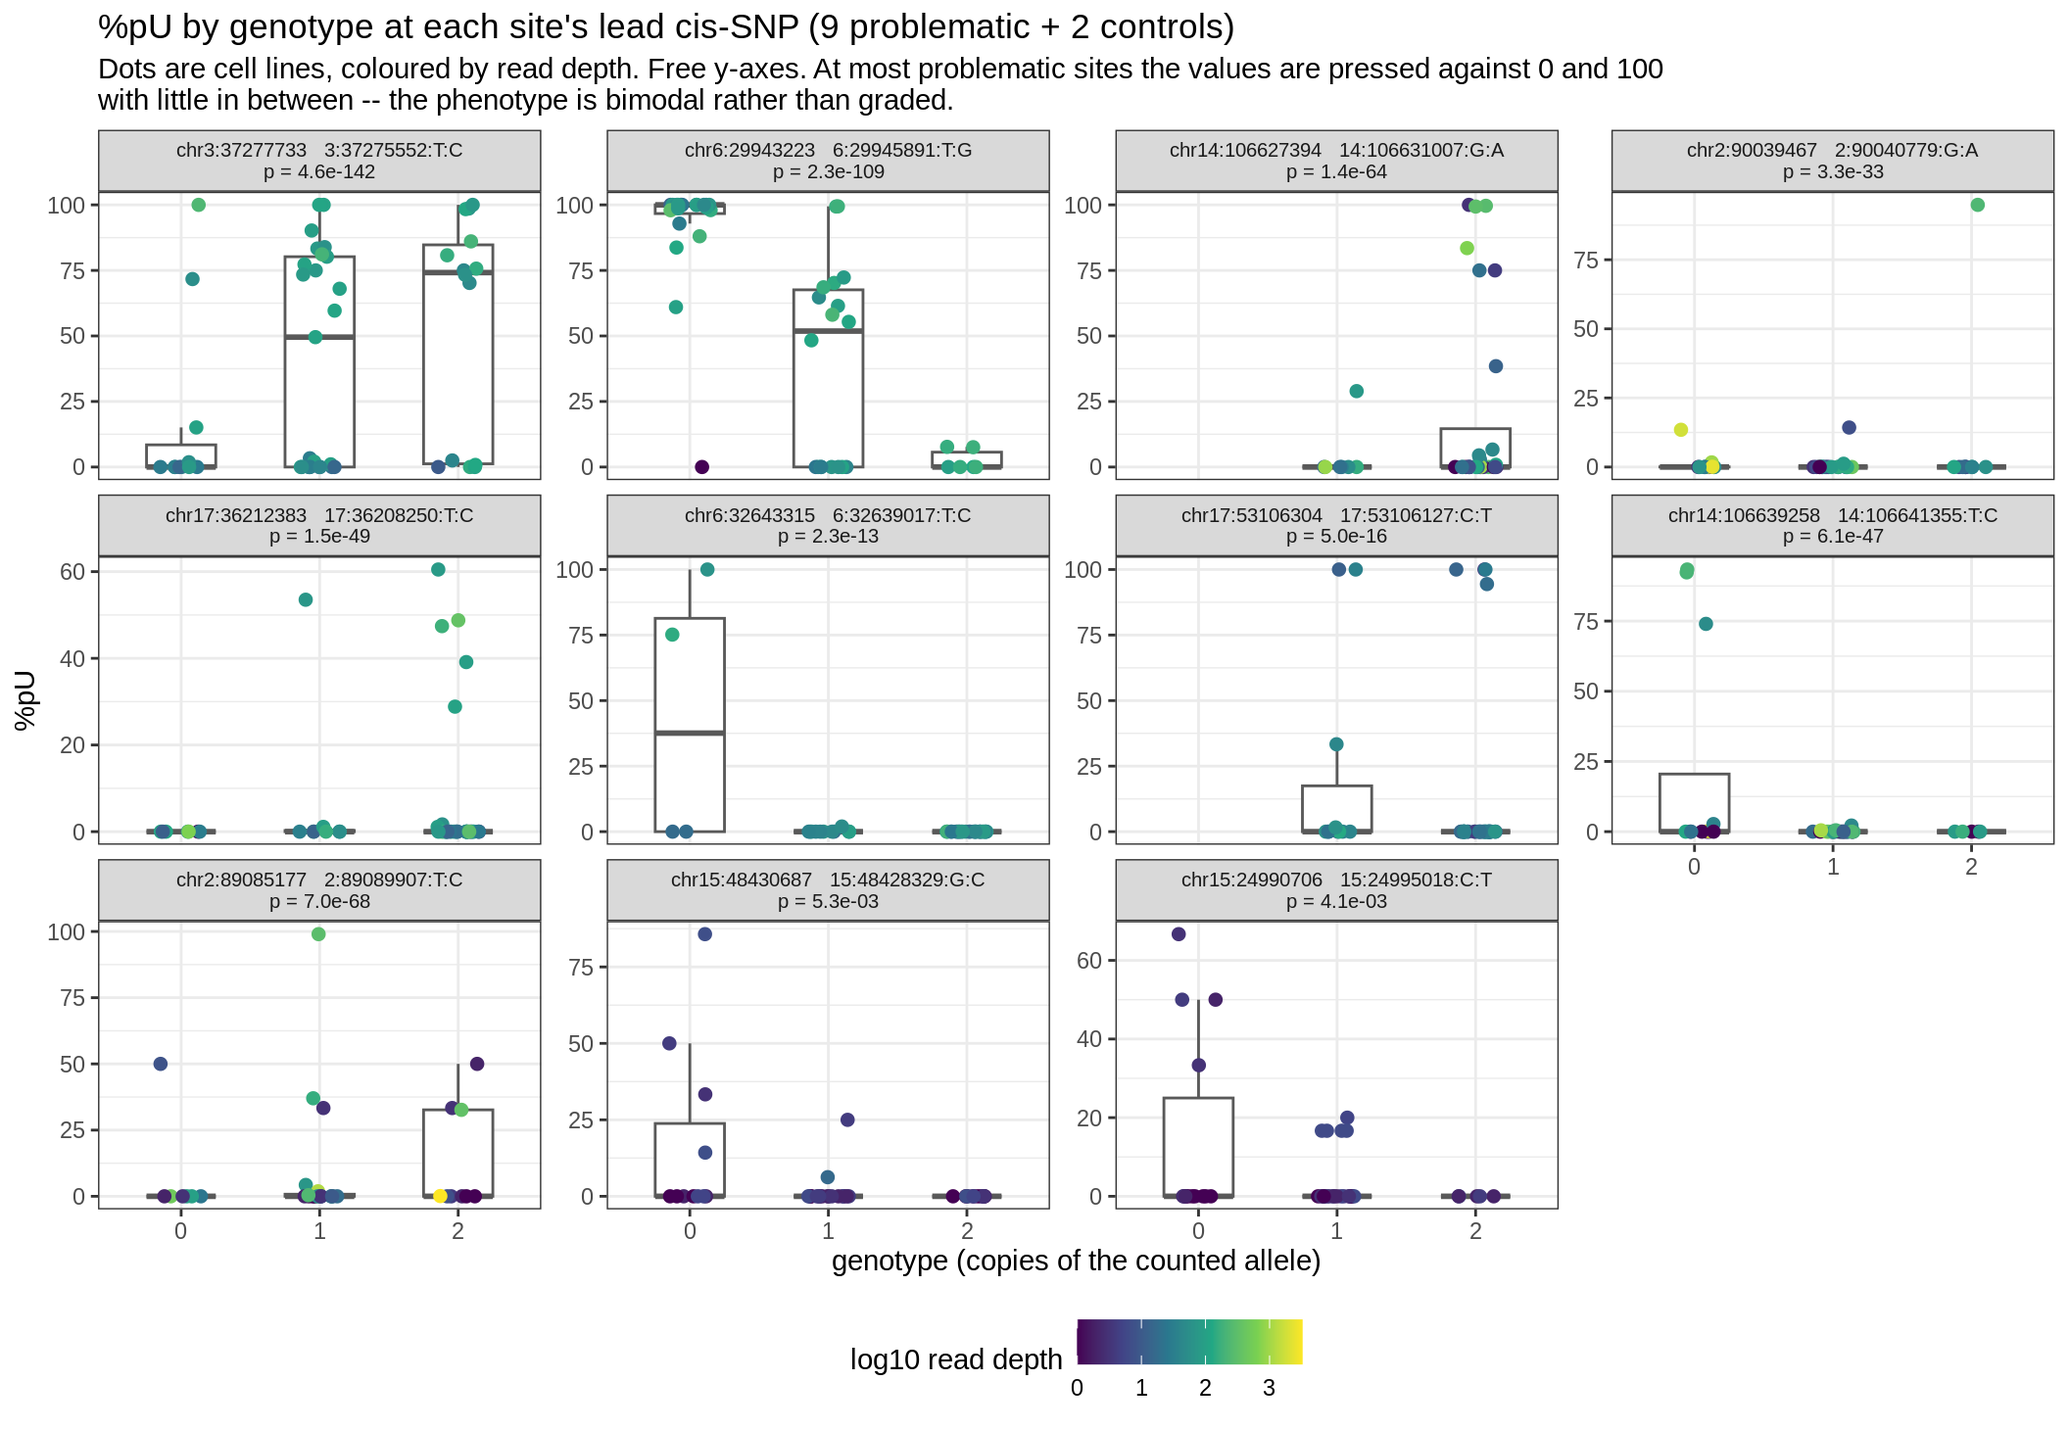
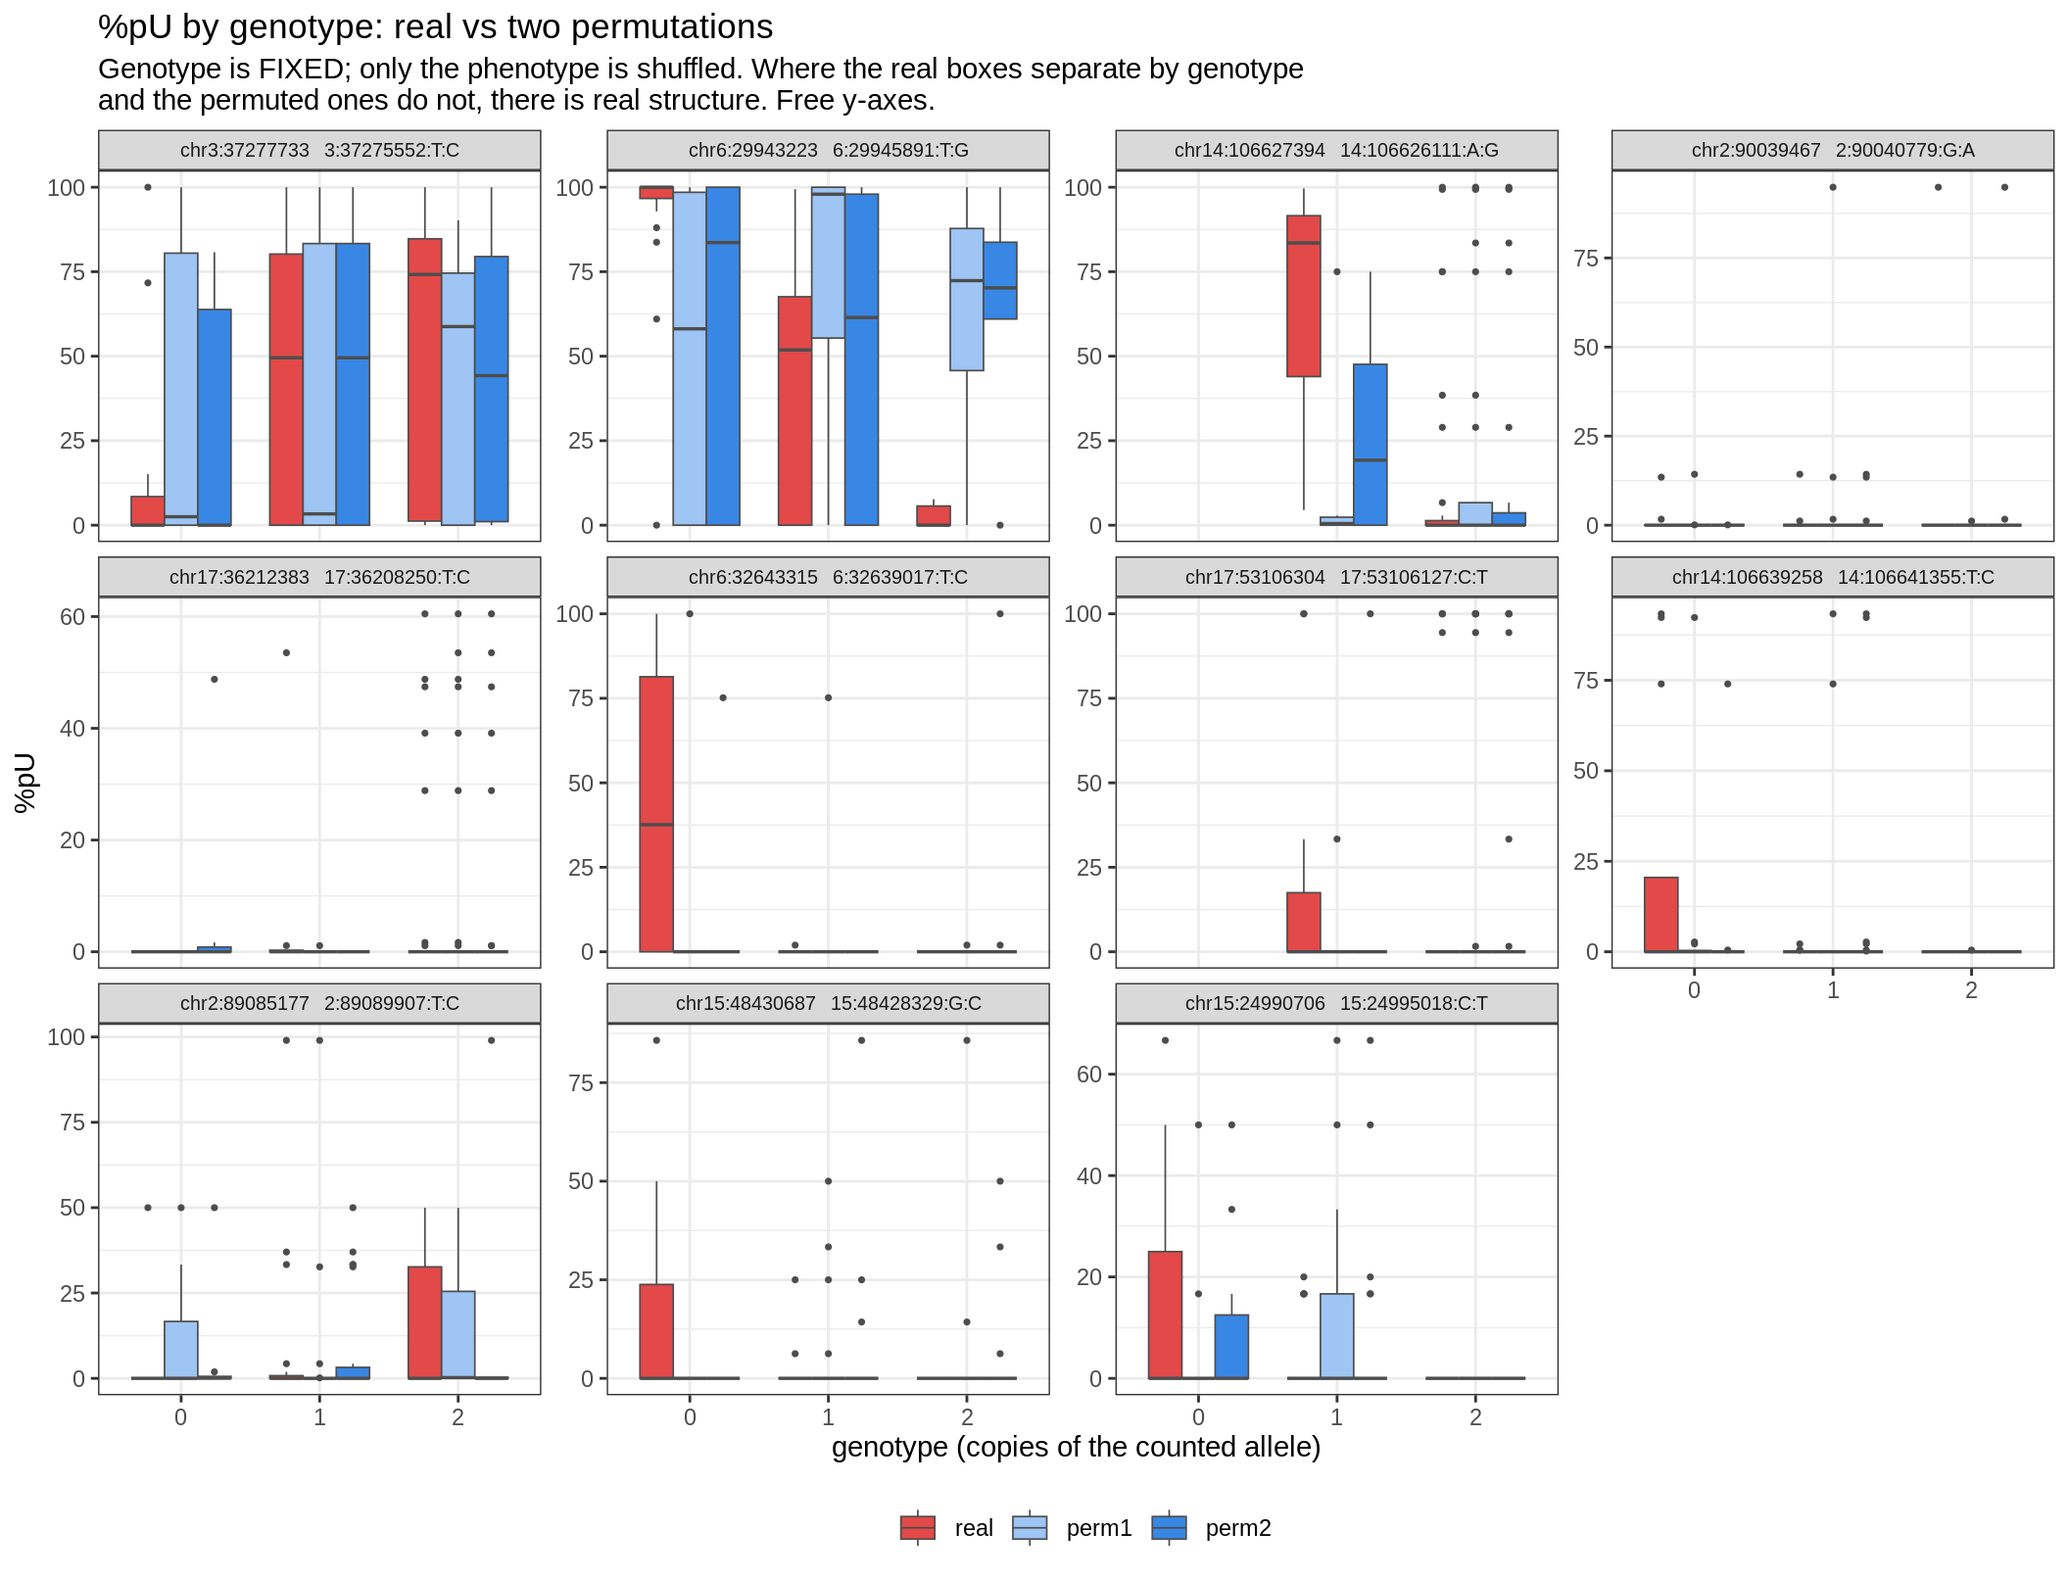
update

diff --git a/docs/qtl_mapping_betabinomial_problematic_diagnosis.html b/docs/qtl_mapping_betabinomial_problematic_diagnosis.html
@@ -11,7 +11,7 @@
 
 <meta name="author" content="XSun" />
 
-<meta name="date" content="2026-08-30" />
+<meta name="date" content="2026-08-31" />
 
 <title>Beta-binomial pU-QTL: diagnosing the problematic sites (k = 3, ±5 kb, U/C sites removed)</title>
 
@@ -374,7 +374,7 @@ div.tocify {
 <h1 class="title toc-ignore">Beta-binomial pU-QTL: diagnosing the
 problematic sites (k = 3, ±5 kb, U/C sites removed)</h1>
 <h4 class="author">XSun</h4>
-<h4 class="date">2026-08-30</h4>
+<h4 class="date">2026-08-31</h4>
 
 </div>
 
@@ -403,7 +403,7 @@ aria-hidden="true"></span> </a>
 <div class="tab-content">
 <div id="summary" class="tab-pane fade in active">
 <p>
-<strong>Last updated:</strong> 2026-08-30
+<strong>Last updated:</strong> 2026-08-31
 </p>
 <p>
 <strong>Checks:</strong> <span
@@ -537,15 +537,15 @@ project makes it easier to run your code on other machines.</p>
 <div class="panel panel-default">
 <div class="panel-heading">
 <p class="panel-title">
-<a data-toggle="collapse" data-parent="#workflowr-checks" href="#strongRepositoryversionstrongahrefhttpsgithubcomxsun1229pumseqtree27a3e4653304f0205d19c2ceacb87d089e554eaftargetblank27a3e46a">
+<a data-toggle="collapse" data-parent="#workflowr-checks" href="#strongRepositoryversionstrongahrefhttpsgithubcomxsun1229pumseqtree96b89e784d716ea7bcf04f270a5aec167d95c417targetblank96b89e7a">
 <span class="glyphicon glyphicon-ok text-success"
 aria-hidden="true"></span> <strong>Repository version:</strong>
-<a href="https://github.com/xsun1229/pumseq/tree/27a3e4653304f0205d19c2ceacb87d089e554eaf" target="_blank">27a3e46</a>
+<a href="https://github.com/xsun1229/pumseq/tree/96b89e784d716ea7bcf04f270a5aec167d95c417" target="_blank">96b89e7</a>
 </a>
 </p>
 </div>
 <div
[2 lines of base64/hex data omitted]
 class="panel-collapse collapse">
 <div class="panel-body">
 <p>
@@ -555,7 +555,7 @@ reproducibility.
 </p>
 <p>
 The results in this page were generated with repository version
-<a href="https://github.com/xsun1229/pumseq/tree/27a3e4653304f0205d19c2ceacb87d089e554eaf" target="_blank">27a3e46</a>.
+<a href="https://github.com/xsun1229/pumseq/tree/96b89e784d716ea7bcf04f270a5aec167d95c417" target="_blank">96b89e7</a>.
 See the <em>Past versions</em> tab to see a history of the changes made
 to the R Markdown and HTML files.
 </p>
@@ -626,6 +626,57 @@ Message
 Rmd
 </td>
 <td>
+<a href="https://github.com/xsun1229/pumseq/blob/96b89e784d716ea7bcf04f270a5aec167d95c417/analysis/qtl_mapping_betabinomial_problematic_diagnosis.Rmd" target="_blank">96b89e7</a>
+</td>
+<td>
+XSun
+</td>
+<td>
+2026-08-31
+</td>
+<td>
+update
+</td>
+</tr>
+<tr>
+<td>
+Rmd
+</td>
+<td>
+<a href="https://github.com/xsun1229/pumseq/blob/cb878ca011b16ce030416c7f379594945c6d7c0b/analysis/qtl_mapping_betabinomial_problematic_diagnosis.Rmd" target="_blank">cb878ca</a>
+</td>
+<td>
+XSun
+</td>
+<td>
+2026-08-30
+</td>
+<td>
+update
+</td>
+</tr>
+<tr>
+<td>
+html
+</td>
+<td>
+<a href="https://rawcdn.githack.com/xsun1229/pumseq/cb878ca011b16ce030416c7f379594945c6d7c0b/docs/qtl_mapping_betabinomial_problematic_diagnosis.html" target="_blank">cb878ca</a>
+</td>
+<td>
+XSun
+</td>
+<td>
+2026-08-30
+</td>
+<td>
+update
+</td>
+</tr>
+<tr>
+<td>
+Rmd
+</td>
+<td>
 <a href="https://github.com/xsun1229/pumseq/blob/27a3e4653304f0205d19c2ceacb87d089e554eaf/analysis/qtl_mapping_betabinomial_problematic_diagnosis.Rmd" target="_blank">27a3e46</a>
 </td>
 <td>
@@ -673,6 +724,7 @@ DIAG &lt;- file.path(PSI, &quot;qtl_betabinomial/diagnostic_figures&quot;)
 par   &lt;- fread(file.path(PC, &quot;case_params_patho.tsv&quot;), sep = &quot;\t&quot;)
 bins  &lt;- fread(file.path(PC, &quot;prior_bins_patho.tsv&quot;), sep = &quot;\t&quot;)
 obs   &lt;- fread(file.path(PC, &quot;observed_patho.tsv&quot;), sep = &quot;\t&quot;)
+pgen  &lt;- fread(file.path(PC, &quot;pu_by_geno_perm_patho.tsv&quot;), sep = &quot;\t&quot;)
 # sid contains a space, so the separator must be explicit
 pl    &lt;- fread(file.path(DIAG, &quot;pathological_sites_w5kb_pc3_auto_noUCcalled.txt&quot;), sep = &quot;\t&quot;)
 
@@ -848,26 +900,33 @@ scan is <em>less</em> extreme than the worst permutation.</p>
 </div>
 <div id="pu-by-genotype-at-the-lead-cis-snp" class="section level1">
 <h1>2. %pU by genotype at the lead cis-SNP</h1>
-<pre class="r"><code>o &lt;- obs[!is.na(geno)]
-o[, gf := factor(geno, levels = c(0, 1, 2))]
-lab &lt;- unique(o[, .(sidf, group, lead_snp, lead_p)])
-lab[, panel := sprintf(&quot;chr%s   %s\np = %.1e&quot;, sub(&quot; &quot;, &quot;:&quot;, sidf), lead_snp, lead_p)]
-o &lt;- merge(o, lab[, .(sidf, panel)], by = &quot;sidf&quot;)
-o[, panel := factor(panel, levels = lab[order(match(sidf, ord))]$panel)]
+<p>Real data plus the calibration’s first two permutation orders. The
+permutation moves the phenotype (and covariates) across cell lines while
+<strong>genotype stays fixed</strong>, so any genotype–phenotype
+relationship is destroyed. The <code>%pU</code> values themselves are
+unchanged — same multiset, different cell lines — verified: the per-site
+mean <code>%pU</code> and cell-line count are identical across all three
+datasets.</p>
+<pre class="r"><code>g &lt;- pgen[!is.na(geno)]
+g[, gf := factor(geno, levels = c(0, 1, 2))]
+g[, dataset := factor(dataset, levels = c(&quot;real&quot;, &quot;perm1&quot;, &quot;perm2&quot;))]
+labg &lt;- unique(pgen[, .(sid, group, lead_snp)])
+labg[, panel := sprintf(&quot;chr%s   %s&quot;, sub(&quot; &quot;, &quot;:&quot;, sid), lead_snp)]
+g &lt;- merge(g, labg[, .(sid, panel)], by = &quot;sid&quot;)
+g[, panel := factor(panel, levels = labg[order(match(sid, ord))]$panel)]
 
-ggplot(o, aes(gf, 100 * pu)) +
-  geom_boxplot(width = 0.5, outlier.shape = NA, colour = &quot;grey35&quot;) +
-  geom_jitter(aes(colour = log10(n)), width = 0.15, height = 0, size = 1.9) +
-  scale_colour_viridis_c(option = &quot;D&quot;, name = &quot;log10 read depth&quot;) +
+ggplot(g, aes(gf, 100 * pu, fill = dataset)) +
+  geom_boxplot(width = 0.72, outlier.size = 0.6, colour = &quot;grey30&quot;,
+               position = position_dodge(preserve = &quot;single&quot;), linewidth = 0.3) +
+  scale_fill_manual(values = c(real = &quot;#e34948&quot;, perm1 = &quot;#9ec5f4&quot;, perm2 = &quot;#3987e5&quot;),
+                    name = NULL) +
   facet_wrap(~ panel, ncol = 4, scales = &quot;free_y&quot;) +
   labs(x = &quot;genotype (copies of the counted allele)&quot;, y = &quot;%pU&quot;,
-       title = sprintf(&quot;%%pU by genotype at each site&#39;s lead cis-SNP (%d problematic + %d controls)&quot;,
-                       NPROB, NCTRL),
-       subtitle = paste(&quot;Dots are cell lines, coloured by read depth. Free y-axes.&quot;,
-                        &quot;At most problematic sites the values are pressed against 0 and 100&quot;,
-                        &quot;\nwith little in between -- the phenotype is bimodal rather than graded.&quot;)) +
+       title = &quot;%pU by genotype: real vs two permutations&quot;,
+       subtitle = paste(&quot;Genotype is FIXED; only the phenotype is shuffled. Where the real boxes separate by genotype&quot;,
+                        &quot;\nand the permuted ones do not, there is real structure. Free y-axes.&quot;)) +
   theme_bw(base_size = 11) +
-  theme(legend.position = &quot;bottom&quot;, strip.text = element_text(size = 7.6))</code></pre>
+  theme(legend.position = &quot;bottom&quot;, strip.text = element_text(size = 7.4))</code></pre>
 <p><img src="figure/qtl_mapping_betabinomial_problematic_diagnosis.Rmd/box-1.png" width="1056" style="display: block; margin: auto;" /></p>
 <p>
 <button type="button" class="btn btn-default btn-xs btn-workflowr btn-workflowr-fig" data-toggle="collapse" data-target="#fig-box-1">
@@ -893,6 +952,17 @@ Date
 <tbody>
 <tr>
 <td>
+<a href="https://github.com/xsun1229/pumseq/blob/cb878ca011b16ce030416c7f379594945c6d7c0b/docs/figure/qtl_mapping_betabinomial_problematic_diagnosis.Rmd/box-1.png" target="_blank">cb878ca</a>
+</td>
+<td>
+XSun
+</td>
+<td>
+2026-08-30
+</td>
+</tr>
+<tr>
+<td>
 <a href="https://github.com/xsun1229/pumseq/blob/27a3e4653304f0205d19c2ceacb87d089e554eaf/docs/figure/qtl_mapping_betabinomial_problematic_diagnosis.Rmd/box-1.png" target="_blank">27a3e46</a>
 </td>
 <td>
@@ -906,6 +976,116 @@ XSun
 </table>
 </div>
 </div>
+<pre class="r"><code>lp &lt;- dcast(pgen[, .(p = lead_p_this[1]), by = .(sid, group, dataset)],
+            sid + group ~ dataset, value.var = &quot;p&quot;)
+setcolorder(lp, c(&quot;sid&quot;, &quot;group&quot;, &quot;real&quot;, &quot;perm1&quot;, &quot;perm2&quot;))
+knitr::kable(lp[order(match(sid, ord)), .(
+  site = paste0(&quot;chr&quot;, sub(&quot; &quot;, &quot;:&quot;, sid)), group = as.character(group),
+  `real` = signif(real, 3), `perm 1` = signif(perm1, 3), `perm 2` = signif(perm2, 3))],
+  caption = &quot;LRT p at the SAME lead cis-SNP under each dataset. The controls collapse under permutation, as they should. Most problematic sites do not -- but note chr14:106639258 and chr6:32643315 DO collapse in perm 2, so it is not that any genotype vector works: it is that the MINIMUM over the site&#39;s cis-SNPs stays extreme, which is what the problematic-site selection uses.&quot;)</code></pre>
+<table>
+<caption>LRT p at the SAME lead cis-SNP under each dataset. The controls
+collapse under permutation, as they should. Most problematic sites do
+not – but note chr14:106639258 and chr6:32643315 DO collapse in perm 2,
+so it is not that any genotype vector works: it is that the MINIMUM over
+the site’s cis-SNPs stays extreme, which is what the problematic-site
+selection uses.</caption>
+<colgroup>
+<col width="18%" />
+<col width="55%" />
+<col width="9%" />
+<col width="8%" />
+<col width="8%" />
+</colgroup>
+<thead>
+<tr class="header">
+<th align="left">site</th>
+<th align="left">group</th>
+<th align="right">real</th>
+<th align="right">perm 1</th>
+<th align="right">perm 2</th>
+</tr>
+</thead>
+<tbody>
+<tr class="odd">
+<td align="left">chr3:37277733</td>
+<td align="left">problematic (significant in real AND permuted)</td>
+<td align="right">0.00000</td>
+<td align="right">0.000</td>
+<td align="right">0.000</td>
+</tr>
+<tr class="even">
+<td align="left">chr6:29943223</td>
+<td align="left">problematic (significant in real AND permuted)</td>
+<td align="right">0.00000</td>
+<td align="right">0.000</td>
+<td align="right">0.000</td>
+</tr>
+<tr class="odd">
+<td align="left">chr14:106627394</td>
+<td align="left">problematic (significant in real AND permuted)</td>
+<td align="right">0.00000</td>
+<td align="right">0.000</td>
+<td align="right">0.000</td>
+</tr>
+<tr class="even">
+<td align="left">chr2:90039467</td>
+<td align="left">problematic (significant in real AND permuted)</td>
+<td align="right">0.00000</td>
+<td align="right">0.000</td>
+<td align="right">0.000</td>
+</tr>
+<tr class="odd">
+<td align="left">chr17:36212383</td>
+<td align="left">problematic (significant in real AND permuted)</td>
+<td align="right">0.00000</td>
+<td align="right">0.000</td>
+<td align="right">0.000</td>
+</tr>
+<tr class="even">
+<td align="left">chr6:32643315</td>
+<td align="left">problematic (significant in real AND permuted)</td>
+<td align="right">0.00000</td>
+<td align="right">0.000</td>
+<td align="right">0.794</td>
+</tr>
+<tr class="odd">
+<td align="left">chr17:53106304</td>
+<td align="left">problematic (significant in real AND permuted)</td>
+<td align="right">0.00000</td>
+<td align="right">0.000</td>
+<td align="right">0.000</td>
+</tr>
+<tr class="even">
+<td align="left">chr14:106639258</td>
+<td align="left">problematic (significant in real AND permuted)</td>
+<td align="right">0.00000</td>
+<td align="right">0.000</td>
+<td align="right">0.657</td>
+</tr>
+<tr class="odd">
+<td align="left">chr2:89085177</td>
+<td align="left">problematic (significant in real AND permuted)</td>
+<td align="right">0.00000</td>
+<td align="right">0.000</td>
+<td align="right">0.000</td>
+</tr>
+<tr class="even">
+<td align="left">chr15:48430687</td>
+<td align="left">matched control</td>
+<td align="right">0.00529</td>
+<td align="right">0.233</td>
+<td align="right">0.283</td>
+</tr>
+<tr class="odd">
+<td align="left">chr15:24990706</td>
+<td align="left">matched control</td>
+<td align="right">0.00414</td>
+<td align="right">0.963</td>
+<td align="right">0.192</td>
+</tr>
+</tbody>
+</table>
 <pre class="r"><code>knitr::kable(obs[, .(
   site = paste0(&quot;chr&quot;, sub(&quot; &quot;, &quot;:&quot;, sid[1])),
   group = as.character(group[1]),
@@ -1375,6 +1555,17 @@ Date
 <tbody>
 <tr>
 <td>
+<a href="https://github.com/xsun1229/pumseq/blob/cb878ca011b16ce030416c7f379594945c6d7c0b/docs/figure/qtl_mapping_betabinomial_problematic_diagnosis.Rmd/phi-fig-1.png" target="_blank">cb878ca</a>
+</td>
+<td>
+XSun
+</td>
+<td>
+2026-08-30
+</td>
+</tr>
+<tr>
+<td>
 <a href="https://github.com/xsun1229/pumseq/blob/27a3e4653304f0205d19c2ceacb87d089e554eaf/docs/figure/qtl_mapping_betabinomial_problematic_diagnosis.Rmd/phi-fig-1.png" target="_blank">27a3e46</a>
 </td>
 <td>
@@ -1498,6 +1689,17 @@ Date
 </tr>
 </thead>
 <tbody>
+<tr>
+<td>
+<a href="https://github.com/xsun1229/pumseq/blob/cb878ca011b16ce030416c7f379594945c6d7c0b/docs/figure/qtl_mapping_betabinomial_problematic_diagnosis.Rmd/prior-1.png" target="_blank">cb878ca</a>
+</td>
+<td>
+XSun
+</td>
+<td>
+2026-08-30
+</td>
+</tr>
 <tr>
 <td>
 <a href="https://github.com/xsun1229/pumseq/blob/27a3e4653304f0205d19c2ceacb87d089e554eaf/docs/figure/qtl_mapping_betabinomial_problematic_diagnosis.Rmd/prior-1.png" target="_blank">27a3e46</a>
@@ -1741,20 +1943,20 @@ other attached packages:
 [1] ggplot2_3.4.2     data.table_1.14.4 workflowr_1.7.0  
 
 loaded via a namespace (and not attached):
- [1] Rcpp_1.0.11       highr_0.9         compiler_4.2.0    pillar_1.9.0     
- [5] bslib_0.3.1       later_1.3.0       git2r_0.30.1      jquerylib_0.1.4  
- [9] tools_4.2.0       getPass_0.2-2     digest_0.6.29     viridisLite_0.4.0
-[13] gtable_0.3.0      jsonlite_1.8.7    evaluate_0.15     lifecycle_1.0.4  
-[17] tibble_3.2.1      pkgconfig_2.0.3   rlang_1.1.2       cli_3.6.2        
-[21] rstudioapi_0.14   yaml_2.3.5        xfun_0.38         fastmap_1.1.0    
-[25] withr_2.5.0       dplyr_1.1.2       httr_1.4.5        stringr_1.5.0    
-[29] knitr_1.42        generics_0.1.3    sass_0.4.1        fs_1.5.2         
-[33] vctrs_0.6.1       tidyselect_1.2.0  grid_4.2.0        rprojroot_2.0.3  
-[37] glue_1.6.2        R6_2.5.1          processx_3.5.3    fansi_1.0.3      
-[41] rmarkdown_2.21    farver_2.1.0      callr_3.7.0       magrittr_2.0.3   
-[45] whisker_0.4       scales_1.2.0      ps_1.7.0          promises_1.2.0.1 
-[49] htmltools_0.5.7   colorspace_2.0-3  httpuv_1.6.5      labeling_0.4.2   
-[53] utf8_1.2.2        stringi_1.7.6     munsell_0.5.0    </code></pre>
+ [1] Rcpp_1.0.11      highr_0.9        compiler_4.2.0   pillar_1.9.0    
+ [5] bslib_0.3.1      later_1.3.0      git2r_0.30.1     jquerylib_0.1.4 
+ [9] tools_4.2.0      getPass_0.2-2    digest_0.6.29    gtable_0.3.0    
+[13] jsonlite_1.8.7   evaluate_0.15    lifecycle_1.0.4  tibble_3.2.1    
+[17] pkgconfig_2.0.3  rlang_1.1.2      cli_3.6.2        rstudioapi_0.14 
+[21] yaml_2.3.5       xfun_0.38        fastmap_1.1.0    withr_2.5.0     
+[25] dplyr_1.1.2      httr_1.4.5       stringr_1.5.0    knitr_1.42      
+[29] generics_0.1.3   sass_0.4.1       fs_1.5.2         vctrs_0.6.1     
+[33] tidyselect_1.2.0 grid_4.2.0       rprojroot_2.0.3  glue_1.6.2      
+[37] R6_2.5.1         processx_3.5.3   fansi_1.0.3      rmarkdown_2.21  
+[41] farver_2.1.0     callr_3.7.0      magrittr_2.0.3   whisker_0.4     
+[45] scales_1.2.0     ps_1.7.0         promises_1.2.0.1 htmltools_0.5.7 
+[49] colorspace_2.0-3 httpuv_1.6.5     labeling_0.4.2   utf8_1.2.2      
+[53] stringi_1.7.6    munsell_0.5.0   </code></pre>
 </div>
 </div>
 
